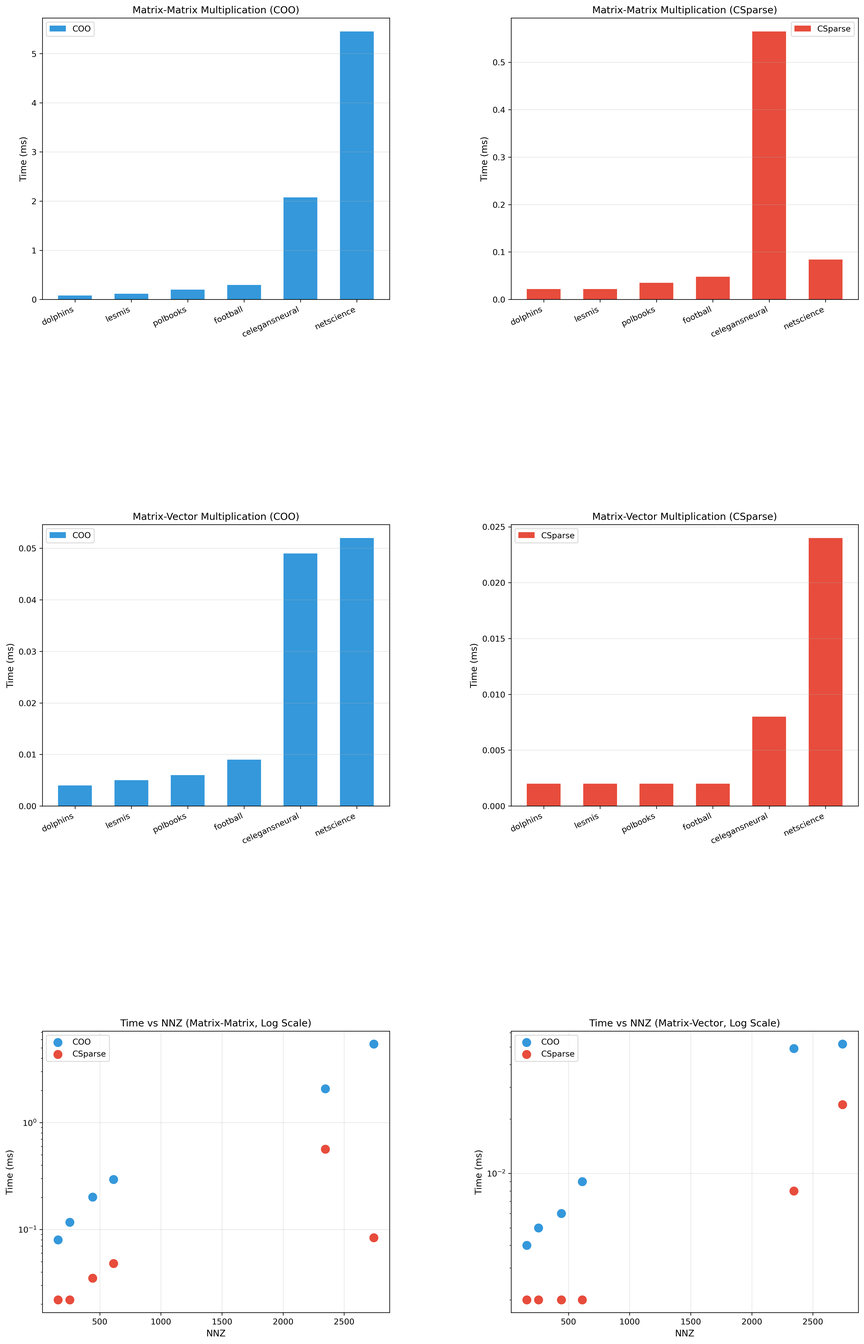
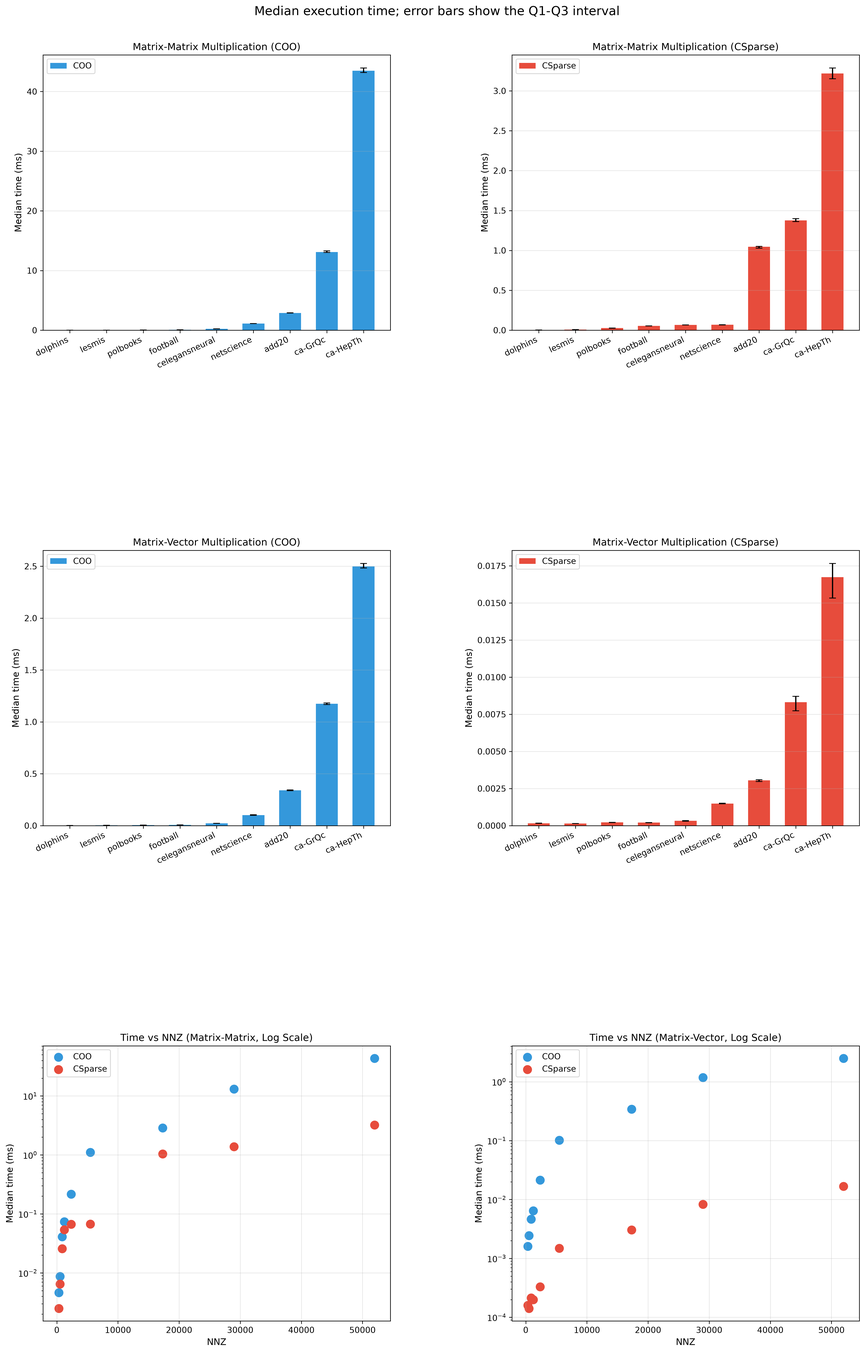
updateed report and added graphs

diff --git a/Roman_Semensky/Roman_Semensky_report.tex b/Roman_Semensky/Roman_Semensky_report.tex
@@ -1,12 +1,12 @@
 \documentclass[a4paper]{article}
-\usepackage[a4paper, top=15mm, bottom=15mm, left=20mm, right=20mm]{geometry}
+\usepackage[a4paper,top=15mm,bottom=15mm,left=20mm,right=20mm]{geometry}
 \usepackage{polyglossia}
 \setdefaultlanguage[babelshorthands=true]{russian}
 \setotherlanguage{english}
 \usepackage{fontspec}
 \setmainfont{FreeSerif}
 \newfontfamily{\russianfonttt}[Scale=0.85]{DejaVuSansMono}
-\usepackage[tiny, compact]{titlesec}
+\usepackage[tiny,compact]{titlesec}
 \usepackage{titling}
 \setlength{\droptitle}{-1cm}
 \pretitle{\begin{center}\begin{bfseries}\Large}
@@ -15,10 +15,7 @@
 \postauthor{\par\end{center}\vspace{-1.5cm}}
 \usepackage{hyperref}
 \usepackage{bookmark}
-\usepackage{csquotes}
 \usepackage{booktabs}
-\usepackage{array}
-\usepackage{siunitx}
 \usepackage{float}
 
 \title{Примитивы линейной алгебры: сравнительный анализ форматов хранения разреженных матриц}
@@ -26,155 +23,133 @@
 \date{}
 
 \begin{document}
-
 \maketitle
-
 \begin{flushright}
-    Группа: \emph{25.Б42-мм} \\
-    Кафедра: \emph{системного программирования} \\
-    Научный руководитель: \emph{Григорьев Семён Вячеславович} \\
-    Номер семестра практики: \emph{2}
+Группа: \emph{25.Б42-мм} \\
+Кафедра: \emph{системного программирования} \\
+Научный руководитель: \emph{Григорьев Семён Вячеславович} \\
+Номер семестра практики: \emph{2}
 \end{flushright}
 
 \section{Введение}
-Работа выполнялась в рамках учебной практики второго семестра первого курса на кафедре системного программирования. Разреженные матрицы, в которых большинство элементов равны нулю, широко применяются в вычислительной математике, анализе графов и машинном обучении. Хранение таких матриц в плотном виде приводит к нерациональному использованию памяти и вычислительных ресурсов. Для работы с ними разработаны специализированные форматы хранения, такие как COO (Coordinate List) и CSC (Compressed Sparse Column), а также оптимизированные библиотеки, например CSparse, входящая в состав SuiteSparse.
+Работа выполнялась в рамках учебной практики и проекта по реализации примитивов разреженной линейной алгебры. Разреженная матрица содержит преимущественно нулевые элементы. В формате разреженного хранения записываются ненулевые элементы и их индексы.
 
-\section{Цель работы}
-Целью работы является сравнительный анализ производительности двух подходов к хранению и обработке разреженных матриц:
-\begin{itemize}
-    \item самостоятельной реализации на языке~C с использованием оптимизированного формата COO;
-    \item эталонной библиотеки CSparse (SuiteSparse), использующей формат CSC.
-\end{itemize}
+В проекте создана собственная реализация формата COO (Coordinate List~--- список координат) на языке~C. Её производительность сравнивалась с CSparse~--- библиотекой для операций над разреженными матрицами, входящей в SuiteSparse.
 
-\section{Задачи работы}
-Для достижения поставленной цели были определены следующие задачи:
+Результаты сравнения и профилирования предназначены для определения участков собственной реализации, требующих дальнейшей доработки.
+
+\section{Цель и задачи работы}
+Цель работы~--- реализовать операции умножения для разреженных матриц в формате COO, сравнить их время выполнения с CSparse и определить узкие места собственной реализации.
+
+Для достижения цели были поставлены следующие задачи:
 \begin{enumerate}
-    \item реализовать библиотеку для работы с разреженными матрицами в формате COO, включающую операции умножения матриц и умножения матрицы на вектор с минимизацией алгоритмической сложности;
-    \item подготовить набор тестовых матриц из открытой коллекции SuiteSparse Matrix Collection;
-    \item разработать программу для измерения времени выполнения операций для обеих реализаций;
-    \item провести сравнительные измерения производительности и проанализировать полученные результаты;
-    \item сформулировать выводы о применимости каждого подхода в зависимости от требований к производительности.
+\item реализовать умножение двух COO-матриц;
+\item реализовать умножение COO-матрицы на разреженный вектор без его преобразования в плотный массив;
+\item подготовить матрицы разного размера из SuiteSparse Matrix Collection;
+\item измерить время двух операций для COO и CSparse по единой методике;
+\item измерить затраты времени по фазам собственных алгоритмов.
 \end{enumerate}
 
-\section{Обзор форматов хранения разреженных матриц}
-Разреженные матрицы могут храниться в различных форматах. Формат COO представляет матрицу тремя одномерными массивами: индексы строк, индексы столбцов и значения ненулевых элементов. Данный формат интуитивно понятен и прост в модификации (добавлении новых элементов).
-
-Альтернативный подход представлен в библиотеке CSparse, где используется формат CSC. В этом формате ненулевые элементы хранятся упорядоченно по столбцам с использованием дополнительного массива указателей на начала столбцов. Это обеспечивает быстрый доступ к элементам конкретного столбца и высокую пространственную локальность данных при обходе.
-
 \section{Описание решения}
-Сравнение проводилось между двумя подходами к представлению разреженных матриц.
+В формате COO каждый ненулевой элемент задаётся тройкой «индекс строки, индекс столбца, значение». Тройки хранятся в трёх одномерных массивах. Для упорядочивания элементов по индексам строк и столбцов используется функция \texttt{qsort}.
 
-\subsection{Собственная реализация (формат COO)}
-Реализация на языке~C использует формат COO. При проектировании алгоритмов особое внимание было уделено минимизации вычислительных накладных расходов, характерных для наивных реализаций:
-\begin{itemize}
-    \item \textbf{Сортировка:} для упорядочивания данных перед операциями используется стандартная быстрая сортировка \texttt{qsort} со временной сложностью $O(N \log N)$, что критически важно для сохранения производительности на больших матрицах.
-    \item \textbf{Устранение линейного поиска:} при умножении матриц вместо поиска дубликатов в результирующем массиве применяется буфер строки (временный плотный массив размером с количество столбцов). Это обеспечивает прямую адресацию и накопление результатов за время $O(1)$ на элемент, выступая в роли идеального хеш-словаря с прямым доступом по индексу столбца и полностью устраняя квадратичную сложность.
-    \item \textbf{Оптимизация работы с векторами:} интерфейс умножения матрицы на вектор реализован с использованием стандартных плотных массивов (\texttt{float*}) для входных и выходных данных. Это полностью исключает накладные расходы на многократную упаковку и распаковку разреженных векторов, соответствуя лучшим практикам разработки.
-\end{itemize}
-Такой подход сохраняет простоту формата COO, но сводит его алгоритмические недостатки к минимуму.
+При умножении матриц для второго сомножителя строится индекс строк. Значения одной строки результата накапливаются во временном массиве по индексам столбцов, после чего ненулевые значения переносятся в COO-матрицу результата.
 
-\subsection{Библиотека CSparse}
-Использование эталонной библиотеки CSparse осуществлялось без модификаций. Библиотека использует формат CSC и оптимизированные алгоритмы умножения, которые минимизируют количество операций с памятью и переборов элементов за счёт эффективной структуры данных.
+Разреженный вектор представляется как COO-матрица размера $n\times1$. Для каждого ненулевого элемента матрицы значение вектора ищется двоичным поиском среди его ненулевых элементов. Плотный вектор из $n$ значений не создаётся.
+
+Для сравнения CSparse получает те же матрицы в формате CSC (Compressed Sparse Column~--- сжатое хранение по столбцам). Входные представления подготавливаются до замеров; измеряется только операция умножения.
 
 \section{Эксперименты}
-
 \subsection{Методика измерений}
-Для проведения сравнительного анализа были использованы реальные матрицы из открытой коллекции SuiteSparse Matrix Collection: \texttt{dolphins} ($62 \times 62$, 159 ненулевых элементов), \texttt{lesmis} ($77 \times 77$, 254 ненулевых), \texttt{polbooks} ($105 \times 105$, 441 ненулевых), \texttt{football} ($115 \times 115$, 613 ненулевых), \texttt{celegansneural} ($297 \times 297$, 2345 ненулевых), \texttt{netscience} ($1589 \times 1589$, 2742 ненулевых). Все матрицы являются квадратными и симметричными.
+Цель сравнительного эксперимента~--- измерить время одного вызова умножения для COO-реализации и CSparse. Использовались девять матриц из SuiteSparse Matrix Collection. Набор включает матрицы размером от $62\times62$ до $9877\times9877$. Для симметричных файлов Matrix Market при загрузке явно добавляются элементы зеркальной части. Поэтому NNZ (Number of Non-Zeros~--- число ненулевых элементов) в таблицах указано после загрузки.
 
-Рассматривались две операции:
-\begin{itemize}
-    \item умножение матрицы на саму себя ($A \times A$);
-    \item умножение матрицы на вектор ($A \times x$).
-\end{itemize}
-
-Измерения времени выполнялись с использованием стандартной функции \texttt{clock()} из библиотеки \texttt{<time.h>}.
+Измерялись $A\times A$ и $A\times x$. Вектор $x$ имел тот же размер, что и число столбцов $A$, а доля его ненулевых элементов составляла 10\%, поэтому вектор оставался разреженным. Перед созданием векторов генератор псевдослучайных чисел инициализировался фиксированным значением 42. Перед замерами выполнялись три прогревочных вызова. Затем собирались 15 выборок; число операций в каждой увеличивалось, пока её длительность не достигала 100~мс.
 
 Характеристики вычислительной системы:
 \begin{itemize}
-    \item операционная система: Ubuntu~24.04 LTS;
-    \item ядро: Linux~6.17.0-35-generic (x86\_64);
-    \item процессор: 13th~Gen Intel Core i5-13420H (12~ядер, частота до 4,6~ГГц);
-    \item оперативная память: 16~ГБ;
-    \item компилятор: GCC (GNU Compiler Collection, стандартные флаги оптимизации \texttt{-O2}).
+\item операционная система: Ubuntu~26.04;
+\item процессор: 13th~Gen Intel Core i5-13420H;
+\item оперативная память: 16~ГБ;
+\item компилятор: GCC (GNU Compiler Collection)~15.2.0, флаг оптимизации \texttt{-O3}.
 \end{itemize}
+Время измерялось монотонным таймером \texttt{clock\_gettime} с \texttt{CLOCK\_MONOTONIC}.
 
-\subsection{Результаты измерений}
-
-Результаты измерения времени выполнения операции умножения матрицы на саму себя ($A \times A$) представлены в табл.~1. Данные включают время выполнения, количество ненулевых элементов (NNZ), плотность матрицы и рассчитанное ускорение библиотеки CSparse относительно оптимизированной COO-реализации.
-
+\subsection{Результаты сравнения}
+В табл.~\ref{tab:mm} приведено время одного вызова $A\times A$. Замедление равно отношению времени COO ко времени CSparse.
 \begin{table}[H]
-\centering
-\small
-\caption{Сравнение производительности умножения матрицы на матрицу ($A \times A$)}
-\label{tab:mat_mult_combined}
-\begin{tabular}{l c c c r r r}
+\centering\small
+\caption{Время умножения матриц $A\times A$}
+\label{tab:mm}
+\begin{tabular}{lrrrrr}
 \toprule
-Матрица & Размер & NNZ & Плотность, \% & Время COO, мс & Время CSparse, мс & Ускорение, $\times$ \\
+Матрица & Размер & NNZ & COO, мкс & CSparse, мкс & Замедление, $\times$\\
 \midrule
-dolphins & $62 \times 62$ & 159 & 4,140 & 0,080 & 0,022 & 3,636 \\
-lesmis & $77 \times 77$ & 254 & 4,280 & 0,117 & 0,022 & 5,318 \\
-polbooks & $105 \times 105$ & 441 & 4,000 & 0,201 & 0,035 & 5,743 \\
-football & $115 \times 115$ & 613 & 4,640 & 0,294 & 0,048 & 6,125 \\
-celegansneural & $297 \times 297$ & 2345 & 2,660 & 2,075 & 0,565 & 3,673 \\
-netscience & $1589 \times 1589$ & 2742 & 0,110 & 5,450 & 0,084 & 64,881 \\
+dolphins & $62\times62$ & 318 & 4{,}643 & 2{,}497 & 1{,}86\\
+lesmis & $77\times77$ & 508 & 8{,}744 & 6{,}499 & 1{,}35\\
+polbooks & $105\times105$ & 882 & 40{,}961 & 25{,}800 & 1{,}59\\
+football & $115\times115$ & 1226 & 74{,}015 & 53{,}911 & 1{,}37\\
+celegansneural & $297\times297$ & 2345 & 216{,}916 & 67{,}057 & 3{,}23\\
+netscience & $1589\times1589$ & 5484 & 1106{,}743 & 67{,}400 & 16{,}42\\
+add20 & $2395\times2395$ & 17319 & 2882{,}296 & 1045{,}834 & 2{,}76\\
+ca-GrQc & $5242\times5242$ & 28980 & 13094{,}578 & 1377{,}051 & 9{,}51\\
+ca-HepTh & $9877\times9877$ & 51971 & 43480{,}173 & 3218{,}179 & 13{,}51\\
 \bottomrule
 \end{tabular}
 \end{table}
 
-Результаты измерения времени выполнения операции умножения матрицы на вектор ($A \times x$) представлены в табл.~2
+Для $A\times A$ CSparse имела меньшее время на всех девяти матрицах; замедление COO составляло от 1{,}35 до 16{,}42 раза.
 
+В табл.~\ref{tab:mv} приведены результаты $A\times x$. В обеих реализациях вектор оставался разреженным.
 \begin{table}[H]
-\centering
-\small
-\caption{Сравнение производительности умножения матрицы на вектор ($A \times x$)}
-\label{tab:mat_vec_combined}
-\begin{tabular}{l c c c r r r}
+\centering\small
+\caption{Время умножения матрицы на вектор $A\times x$}
+\label{tab:mv}
+\begin{tabular}{lrrrrr}
 \toprule
-Матрица & Размер & NNZ & Плотность, \% & Время COO, мс & Время CSparse, мс & Ускорение, $\times$ \\
+Матрица & Размер & NNZ & COO, мкс & CSparse, мкс & Замедление, $\times$\\
 \midrule
-dolphins & $62 \times 62$ & 159 & 4,140 & 0,004 & 0,002 & 2,000 \\
-lesmis & $77 \times 77$ & 254 & 4,280 & 0,005 & 0,002 & 2,500 \\
-polbooks & $105 \times 105$ & 441 & 4,000 & 0,006 & 0,002 & 3,000 \\
-football & $115 \times 115$ & 613 & 4,640 & 0,009 & 0,002 & 4,500 \\
-celegansneural & $297 \times 297$ & 2345 & 2,660 & 0,049 & 0,008 & 6,125 \\
-netscience & $1589 \times 1589$ & 2742 & 0,110 & 0,052 & 0,024 & 2,167 \\
+dolphins & $62\times62$ & 318 & 1{,}605 & 0{,}160 & 10{,}03\\
+lesmis & $77\times77$ & 508 & 2{,}444 & 0{,}141 & 17{,}33\\
+polbooks & $105\times105$ & 882 & 4{,}639 & 0{,}213 & 21{,}78\\
+football & $115\times115$ & 1226 & 6{,}445 & 0{,}200 & 32{,}23\\
+celegansneural & $297\times297$ & 2345 & 21{,}385 & 0{,}329 & 65{,}00\\
+netscience & $1589\times1589$ & 5484 & 101{,}257 & 1{,}489 & 68{,}00\\
+add20 & $2395\times2395$ & 17319 & 341{,}174 & 3{,}044 & 112{,}08\\
+ca-GrQc & $5242\times5242$ & 28980 & 1175{,}114 & 8{,}317 & 141{,}29\\
+ca-HepTh & $9877\times9877$ & 51971 & 2499{,}207 & 16{,}740 & 149{,}30\\
 \bottomrule
 \end{tabular}
 \end{table}
 
-\subsubsection{Анализ результатов}
-Разница в производительности обусловлена следующими факторами:
-\begin{itemize}
-    \item \textbf{Структура данных и локальность кэша:} Библиотека CSparse использует формат \textbf{CSC (Compressed Sparse Column)}. В этом формате элементы хранятся по столбцам с использованием массива указателей на начала столбцов. Это обеспечивает последовательный доступ к памяти и позволяет выполнять умножение за один проход. Применение CSC в собственной реализации не входило в задачи работы, так как целью было оценить и исчерпать потенциал оптимизации именно формата COO.
-    \item \textbf{Алгоритмическая сложность:} Даже при использовании сортировки за $O(N \log N)$ и буфера строки для устранения линейного поиска, формат COO всё ещё требует выделения временной памяти и косвенного доступа к индексам, что создает б\'{о}льшие накладные расходы по сравнению со специализированными библиотечными решениями, особенно на матрицах с большим количеством ненулевых элементов (например, \texttt{netscience}).
-    \item \textbf{Оптимизация интерфейса:} Разница при умножении на вектор минимальна (2--6 раз), так как в текущей реализации исключены накладные расходы на конвертацию векторов, и операция сводится к простому проходу по ненулевым элементам с прямой записью в плотный массив результата.
-\end{itemize}
+Для $A\times x$ CSparse имела меньшее время на всех девяти матрицах; замедление COO составляло от 10{,}03 до 149{,}30 раза.
 
-\subsubsection{Выводы по экспериментам}
-На основе проведённых измерений можно сделать следующие выводы:
-\begin{itemize}
-    \item Несмотря на оптимизации, библиотека CSparse показывает меньшее время выполнения: для умножения матриц ускорение составляет от 3,636 до 64,881 раз, для умножения матрицы на вектор~--- от 2,000 до 6,125 раз.
-    \item Наиболее значительное преимущество CSparse наблюдается на больших разреженных матрицах (\texttt{netscience}), где критически важны эффективное использование кэша процессора и отсутствие выделения временных буферов.
-    \item Формат COO остается отличным выбором для этапа конструирования и модификации матрицы благодаря простоте добавления элементов, но для интенсивных вычислительных операций предпочтительнее использовать специализированные форматы, такие как CSC и CSR (Compressed Sparse Row), и оптимизированные библиотеки.
-\end{itemize}
+\subsection{Профилирование COO-реализации}
+Цель профилирования~--- определить фазы, которые фактически занимают наибольшую долю времени. Измерялись проверка упорядоченности входных данных, построение индекса, накопление произведений, просмотр буфера и создание результата. Профильная сборка использовала \texttt{-O3}.
+
+Для профилирования $A\times A$ выбраны три самые крупные матрицы набора: выполнено 300 повторений на \texttt{add20}, 100 на \texttt{ca-GrQc} и 50 на \texttt{ca-HepTh}. Для $A\times x$ выбраны две самые крупные матрицы: выполнено 1000 повторений на \texttt{ca-GrQc} и 500 на \texttt{ca-HepTh}. Исходные данные и программа профилирования приведены в разделе «Ссылки».
+
+При $A\times A$ просмотр буфера занял 76{,}66\% на \texttt{add20}, 86{,}22\% на \texttt{ca-GrQc} и 90{,}23\% на \texttt{ca-HepTh}. На каждой из трёх матриц эта фаза занимала наибольшую долю времени.
+
+При $A\times x$ фаза двоичного поиска и накопления заняла 93{,}31\% на \texttt{ca-GrQc} и 94{,}63\% на \texttt{ca-HepTh}. За 1000 повторений на \texttt{ca-GrQc} выполнено 28\,980\,000 поисков и 265\,038\,000 сравнений индексов. За 500 повторений на \texttt{ca-HepTh} выполнено 25\,985\,500 поисков и 261\,351\,000 сравнений. В этих измерениях данная фаза занимала наибольшую долю времени.
 
 \section{Заключение}
-В ходе выполнения работы были получены следующие результаты:
+В ходе работы были получены следующие результаты.
 \begin{itemize}
-    \item реализована библиотека разреженной линейной алгебры на языке~C в формате COO с операциями умножения матриц и умножения матрицы на вектор, в которой с самого начала были применены алгоритмические оптимизации для минимизации вычислительной сложности;
-    \item проведено сравнительное измерение производительности с использованием эталонной библиотеки CSparse на реальных матрицах из коллекции SuiteSparse Matrix Collection;
-    \item продемонстрированы компромиссы между двумя подходами: самостоятельная реализация обеспечивает простоту и наглядность кода, но уступает в производительности оптимизированной библиотеке из-за различий в организации памяти и структуре данных;
-    \item выявлено, что преимущество CSparse наиболее заметно при более сложных операциях, таких как умножение матриц на больших размерах задач, где ускорение достигает десятков раз.
+\item Реализованы умножение двух COO-матриц и умножение COO-матрицы на разреженный вектор.
+\item Сравнение с CSparse выполнено на девяти матрицах размером от $62\times62$ до $9877\times9877$.
+\item CSparse имела меньшее время во всех проведённых измерениях.
+\item Профилирование показало, что в $A\times A$ наибольшую долю времени занимает просмотр плотного буфера строки, а в $A\times x$~--- фаза двоичного поиска и накопления.
 \end{itemize}
 
-Материалы, иллюстрирующие выполнение работы, размещены по адресу:\\
-\url{https://github.com/rmnsmnsk/implementation-of-linear-algebra-primitives} (исходный код, скрипты измерений, README).
-
-Техническая документация: \url{https://github.com/rmnsmnsk/implementation-of-linear-algebra-primitives/blob/main/README.md}.
-
-Репозиторий с отчётами: \url{https://github.com/gsvgit/1_year_practice_2026_reports}.
-
-Библиотека CSparse: \url{https://github.com/DrTimothyAldenDavis/SuiteSparse} (дата обращения: 16.06.2026).
-
+\section*{Ссылки}
+\begin{itemize}
+\item исходный код и скрипты измерений: \url{https://github.com/rmnsmnsk/implementation-of-linear-algebra-primitives} (дата обращения: 06.09.2026);
+\item техническая документация: \url{https://github.com/rmnsmnsk/implementation-of-linear-algebra-primitives/blob/main/README.md} (дата обращения: 06.09.2026);
+\item исходные данные профилирования: \url{https://github.com/rmnsmnsk/implementation-of-linear-algebra-primitives/blob/main/profiling_results.csv} (дата обращения: 06.09.2026);
+\item необработанный вывод профилировщика: \url{https://github.com/rmnsmnsk/implementation-of-linear-algebra-primitives/blob/main/profiling_raw_wsl.txt} (дата обращения: 06.09.2026);
+\item программа профилирования: \url{https://github.com/rmnsmnsk/implementation-of-linear-algebra-primitives/blob/main/src/profile.c} (дата обращения: 06.09.2026);
+\item SuiteSparse Matrix Collection: \url{https://sparse.tamu.edu/} (дата обращения: 06.09.2026);
+\item репозиторий SuiteSparse и CSparse: \url{https://github.com/DrTimothyAldenDavis/SuiteSparse} (дата обращения: 06.09.2026);
+\item репозиторий с отчётами: \url{https://github.com/gsvgit/1_year_practice_2026_reports} (дата обращения: 06.09.2026).
+\end{itemize}
 \end{document}
-```
